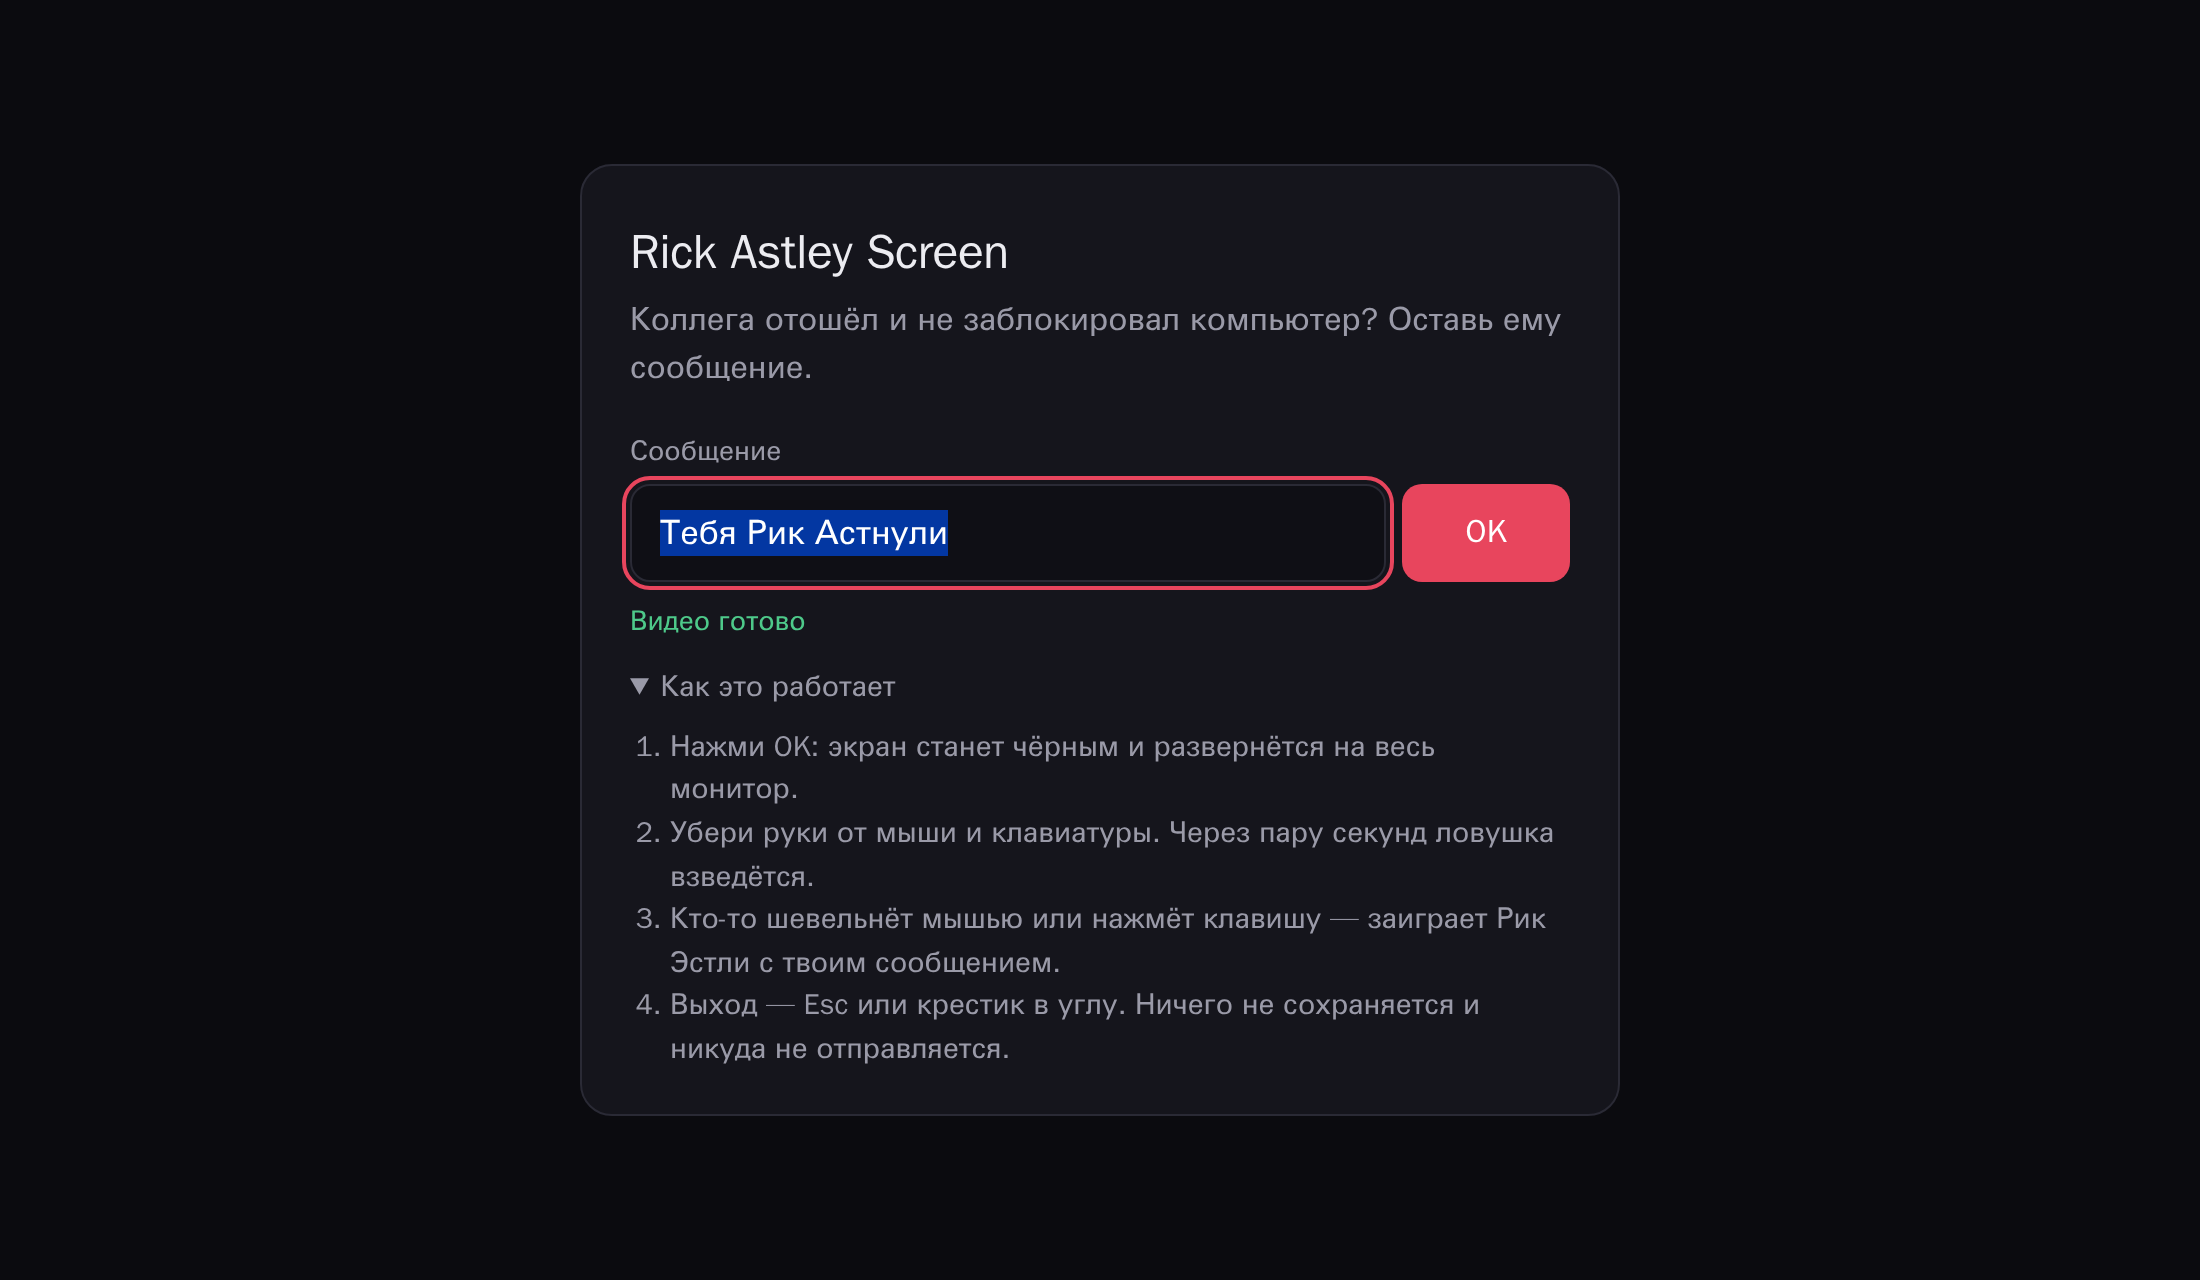
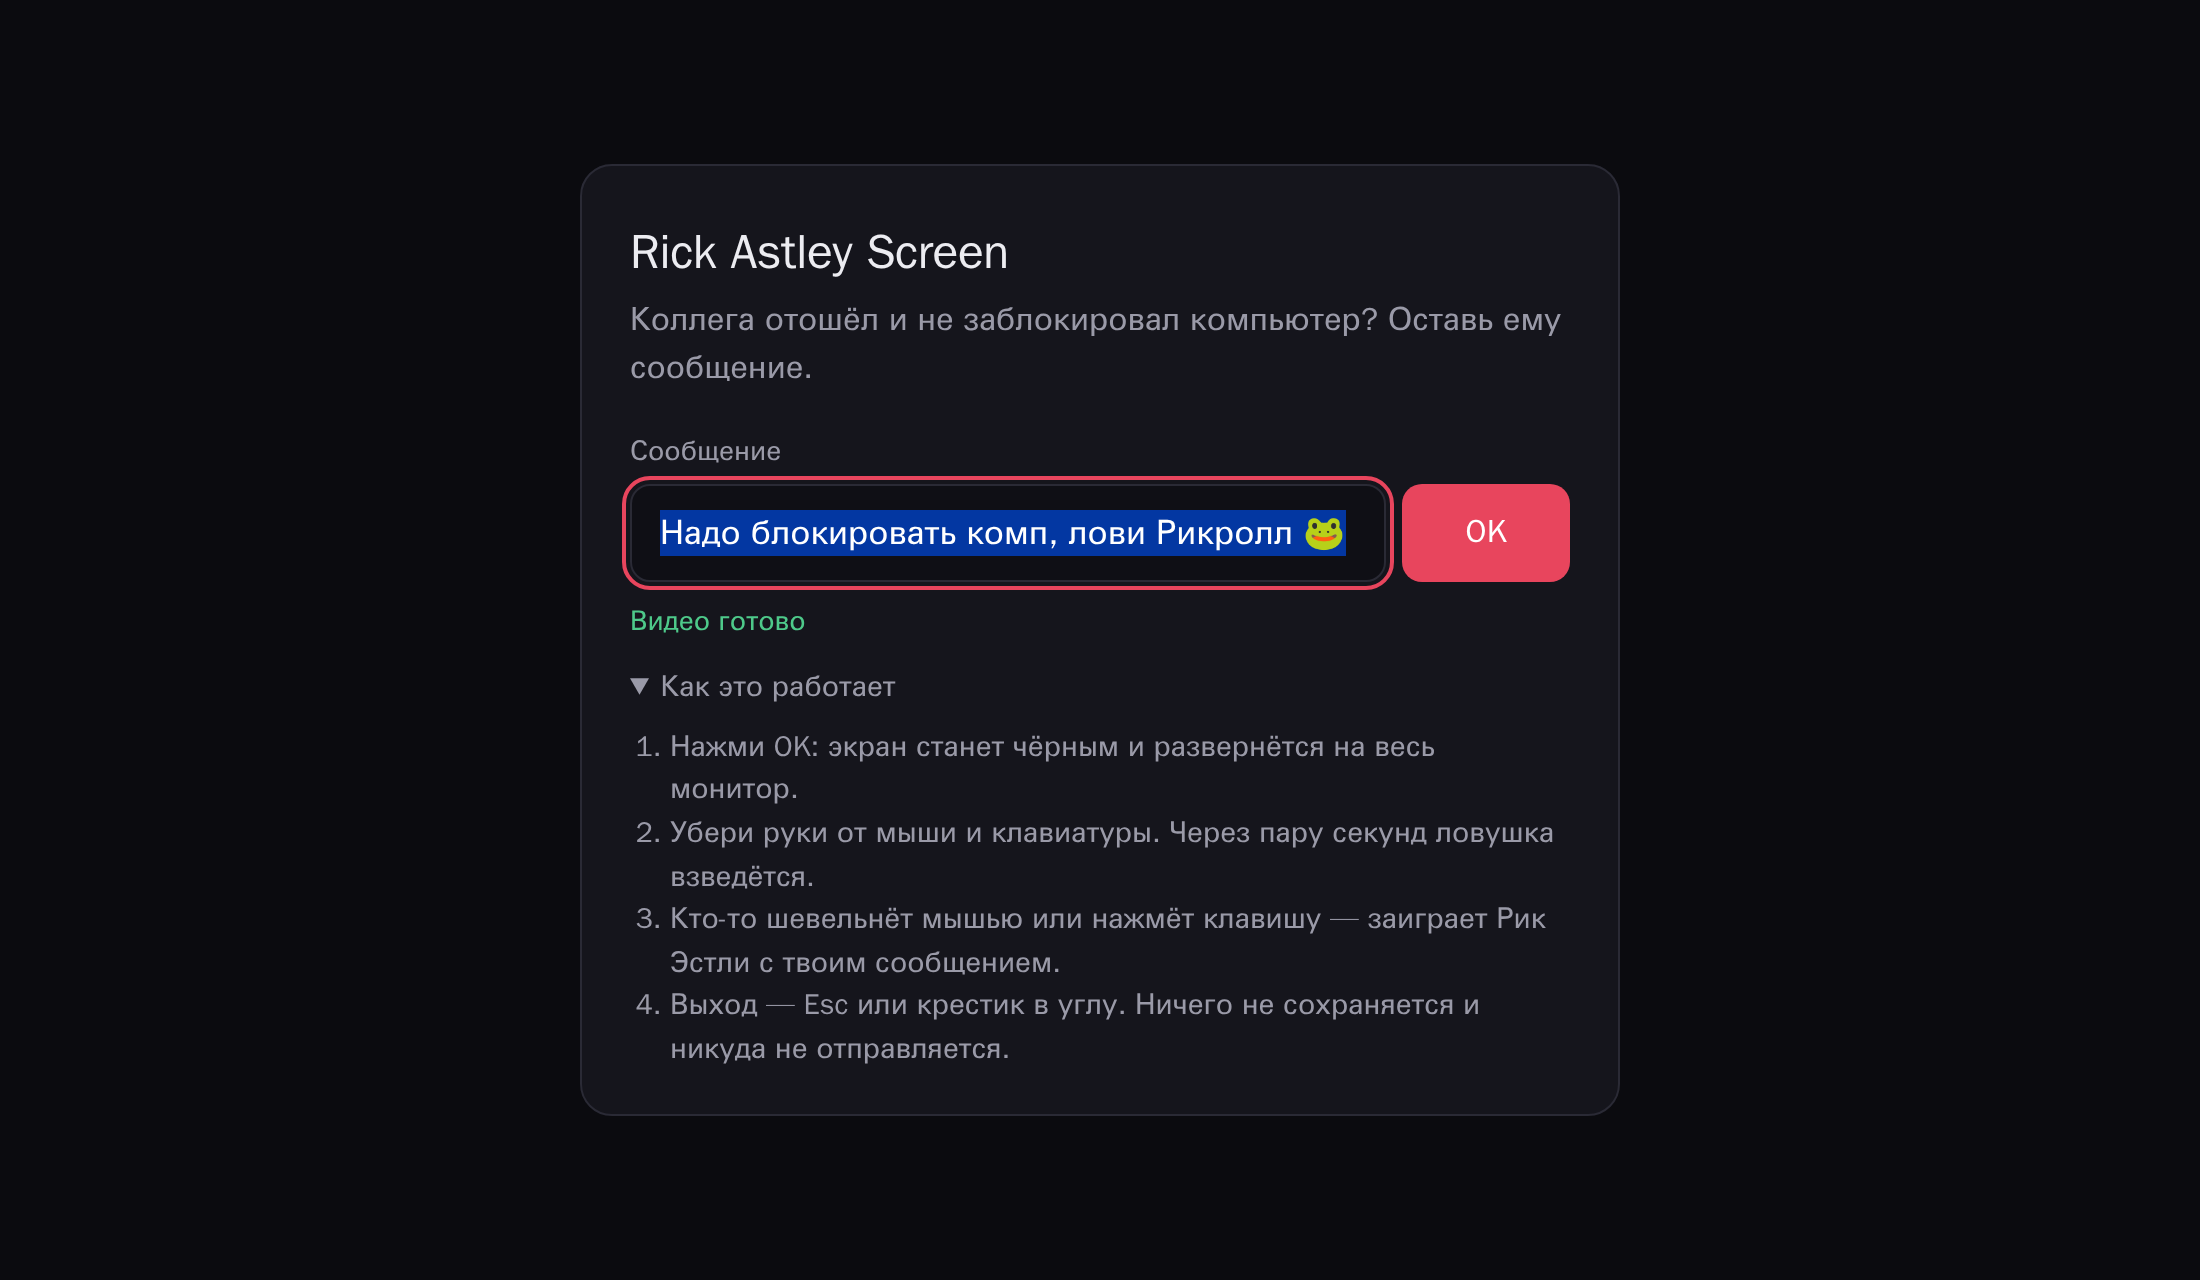
Default message: "Надо блокировать комп, лови Рикролл 🐸"
Unicode has no Pepe emoji; 🐸 is the frog that stands in for it. Changed in
the app default, config.json, the image entrypoint, Compose, the k8s base,
tests, README, and the README screenshot.

Changed region(s): [[0.2782, 0.375, 0.6182, 0.4375]]

diff --git a/tests/e2e/prank.spec.ts b/tests/e2e/prank.spec.ts
@@ -13,7 +13,7 @@ const ARM_DELAY_MS = 300;
  */
 async function stub(page: Page, overrides: Record<string, unknown> = {}): Promise<void> {
   const config = {
-    defaultMessage: 'Тебя Рик Астнули',
+    defaultMessage: 'Надо блокировать комп, лови Рикролл 🐸',
     media: [
       { src: 'media/clip.webm', type: 'video/webm; codecs="vp9, opus"' },
       { src: 'media/clip.mp4', type: 'video/mp4' },
@@ -79,15 +79,15 @@ async function expectPlaying(page: Page, message: string): Promise<void> {
     .toBe(true);
 }
 
-test('defaults to "Тебя Рик Астнули" and plays on mouse movement', async ({ page }) => {
+test('defaults to "Надо блокировать комп, лови Рикролл 🐸" and plays on mouse movement', async ({ page }) => {
   const errors = await watchErrors(page);
   await stub(page);
   await page.goto('./');
-  await expect(page.locator('#message')).toHaveValue('Тебя Рик Астнули');
+  await expect(page.locator('#message')).toHaveValue('Надо блокировать комп, лови Рикролл 🐸');
   await page.mouse.move(10, 10);
   await arm(page);
   await page.mouse.move(400, 300, { steps: 8 });
-  await expectPlaying(page, 'Тебя Рик Астнули');
+  await expectPlaying(page, 'Надо блокировать комп, лови Рикролл 🐸');
   await expect(page.locator('#hint')).toContainText('блокируй компьютер');
   await expect(page).toHaveTitle('Never Gonna Give You Up');
   expect(errors).toEqual([]);
@@ -181,6 +181,6 @@ test('English UI for English browsers', async ({ browser }) => {
   await page.goto('./');
   await expect(page.locator('#message-label')).toHaveText('Message');
   // The default message stays the configured one.
-  await expect(page.locator('#message')).toHaveValue('Тебя Рик Астнули');
+  await expect(page.locator('#message')).toHaveValue('Надо блокировать комп, лови Рикролл 🐸');
   await context.close();
 });

diff --git a/tests/unit/config.test.ts b/tests/unit/config.test.ts
@@ -17,10 +17,12 @@ describe('parseConfig', () => {
     }
   });
 
-  it('defaults the message to "Тебя Рик Астнули"', () => {
-    expect(DEFAULT_MESSAGE).toBe('Тебя Рик Астнули');
-    expect(parseConfig({}, BASE).defaultMessage).toBe('Тебя Рик Астнули');
-    expect(parseConfig({ defaultMessage: '   ' }, BASE).defaultMessage).toBe('Тебя Рик Астнули');
+  it('defaults the message to "Надо блокировать комп, лови Рикролл 🐸"', () => {
+    expect(DEFAULT_MESSAGE).toBe('Надо блокировать комп, лови Рикролл 🐸');
+    expect(parseConfig({}, BASE).defaultMessage).toBe('Надо блокировать комп, лови Рикролл 🐸');
+    expect(parseConfig({ defaultMessage: '   ' }, BASE).defaultMessage).toBe(
+      'Надо блокировать комп, лови Рикролл 🐸',
+    );
   });
 
   it('takes valid fields', () => {

diff --git a/src/config.ts b/src/config.ts
@@ -31,7 +31,7 @@ export interface RuntimeConfig {
   readonly prefetch: boolean;
 }
 
-export const DEFAULT_MESSAGE = 'Тебя Рик Астнули';
+export const DEFAULT_MESSAGE = 'Надо блокировать комп, лови Рикролл 🐸';
 
 export const DEFAULT_CONFIG: RuntimeConfig = {
   defaultMessage: DEFAULT_MESSAGE,

diff --git a/README.md b/README.md
@@ -13,7 +13,7 @@ with your message. English summary [below](#english)._
 
 ## Как это работает
 
-1. Сообщение по умолчанию — «Тебя Рик Астнули». Свой текст можно ввести в поле или
+1. Сообщение по умолчанию — «Надо блокировать комп, лови Рикролл 🐸». Свой текст можно ввести в поле или
    передать ссылкой: `https://…/#m=Обед%20за%20твой%20счёт`. Фрагмент `#…` не уходит
    на сервер и не попадает в логи.
 2. **OK** (или Enter) разворачивает страницу на весь экран, делает его чёрным, прячет
@@ -82,18 +82,18 @@ kubectl apply -k deploy/k8s/overlays/example
 
 ### Настройки контейнера
 
-| Переменная                   | По умолчанию                        |                                                                              |
-| ---------------------------- | ----------------------------------- | ---------------------------------------------------------------------------- |
-| `RICKROLL_DEFAULT_MESSAGE`   | `Тебя Рик Астнули`                  | сообщение, если просто нажать OK                                             |
-| `RICKROLL_MEDIA_URL`         | `media/never-gonna-give-you-up.mp4` | путь относительно страницы или `https://` URL (его origin сам попадёт в CSP) |
-| `RICKROLL_MEDIA_TYPE`        | `video/mp4`                         | MIME-тип клипа                                                               |
-| `RICKROLL_MEDIA_ORIGINS`     | —                                   | дополнительные origin'ы для CSP `media-src` / `connect-src`                  |
-| `RICKROLL_ARM_DELAY_MS`      | `1500`                              | сколько ждать покоя перед взводом                                            |
-| `RICKROLL_MOVE_THRESHOLD_PX` | `12`                                | на сколько надо сдвинуть мышь                                                |
-| `RICKROLL_LOOP`              | `true`                              | крутить клип по кругу                                                        |
-| `RICKROLL_LOCK_HINT`         | `true`                              | подсказка «блокируй компьютер»                                               |
-| `RICKROLL_PREFETCH`          | `true`                              | качать клип в память заранее                                                 |
-| `RICKROLL_BASE_PATH`         | `/`                                 | префикс, если прокси его не срезает (`/rick/`)                               |
+| Переменная                   | По умолчанию                             |                                                                              |
+| ---------------------------- | ---------------------------------------- | ---------------------------------------------------------------------------- |
+| `RICKROLL_DEFAULT_MESSAGE`   | `Надо блокировать комп, лови Рикролл 🐸` | сообщение, если просто нажать OK                                             |
+| `RICKROLL_MEDIA_URL`         | `media/never-gonna-give-you-up.mp4`      | путь относительно страницы или `https://` URL (его origin сам попадёт в CSP) |
+| `RICKROLL_MEDIA_TYPE`        | `video/mp4`                              | MIME-тип клипа                                                               |
+| `RICKROLL_MEDIA_ORIGINS`     | —                                        | дополнительные origin'ы для CSP `media-src` / `connect-src`                  |
+| `RICKROLL_ARM_DELAY_MS`      | `1500`                                   | сколько ждать покоя перед взводом                                            |
+| `RICKROLL_MOVE_THRESHOLD_PX` | `12`                                     | на сколько надо сдвинуть мышь                                                |
+| `RICKROLL_LOOP`              | `true`                                   | крутить клип по кругу                                                        |
+| `RICKROLL_LOCK_HINT`         | `true`                                   | подсказка «блокируй компьютер»                                               |
+| `RICKROLL_PREFETCH`          | `true`                                   | качать клип в память заранее                                                 |
+| `RICKROLL_BASE_PATH`         | `/`                                      | префикс, если прокси его не срезает (`/rick/`)                               |
 
 Неверное значение останавливает контейнер с понятной ошибкой: лучше упавший rollout,
 чем страница, у которой CSP молча блокирует видео.
@@ -135,7 +135,7 @@ typescript-eslint), Vite 8, Vitest 5, Playwright, ESLint 10, Angie 1.12 (minimal
 ## English
 
 A static page (TypeScript, no runtime dependencies) served by Angie as an unprivileged user.
-Type a message (default: «Тебя Рик Астнули», "You've been Rick-Astleyed"), press OK:
+Type a message (default: «Надо блокировать комп, лови Рикролл 🐸», "you should have locked the PC, enjoy the Rickroll"), press OK:
 the page goes fullscreen and black, keeps the display awake and arms itself once the
 mouse has been still for 1.5 s. The next mouse move, click, wheel, touch or key press
 plays the video with the message on top and a "lock your computer" hint.
